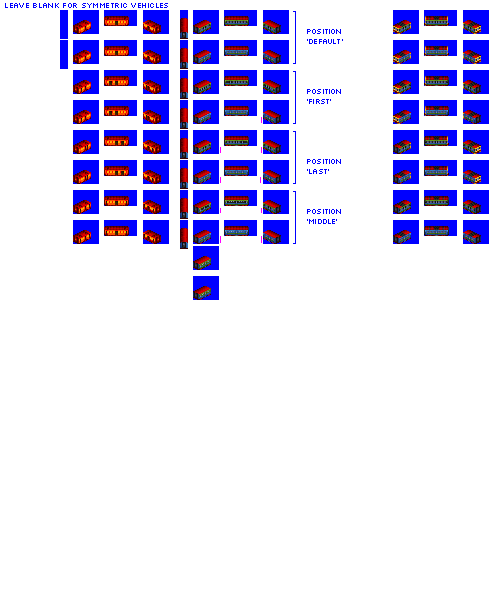
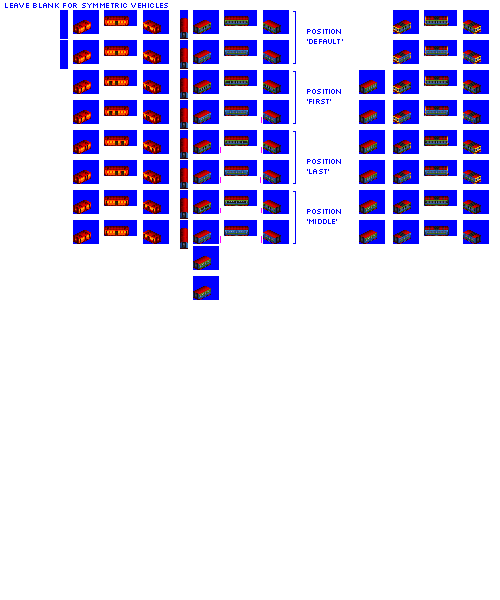
Change: WIP on NG sprites

Changed region(s): [[0.72, 0.09, 0.78, 0.42]]

diff --git a/src/vehicles/boar_cat.py b/src/vehicles/boar_cat.py
@@ -5,6 +5,7 @@ consist = EngineConsist(id='boar_cat',
                         name='Boar Cat',
                         role='universal',
                         power=800,
+                        random_reverse=True,
                         base_track_type='NG',
                         type_base_buy_cost_points=-10,  # dibble buy cost for game balance
                         type_base_running_cost_points=-15,  # dibble running costs for game balance

diff --git a/src/vehicles/pikel.py b/src/vehicles/pikel.py
@@ -5,6 +5,7 @@ consist = EngineConsist(id='pikel',
                         name='Pikel',
                         role='universal',
                         power=650,
+                        random_reverse=True,
                         base_track_type='NG',
                         type_base_buy_cost_points=-10,  # dibble buy cost for game balance
                         type_base_running_cost_points=-15,  # dibble running costs for game balance
